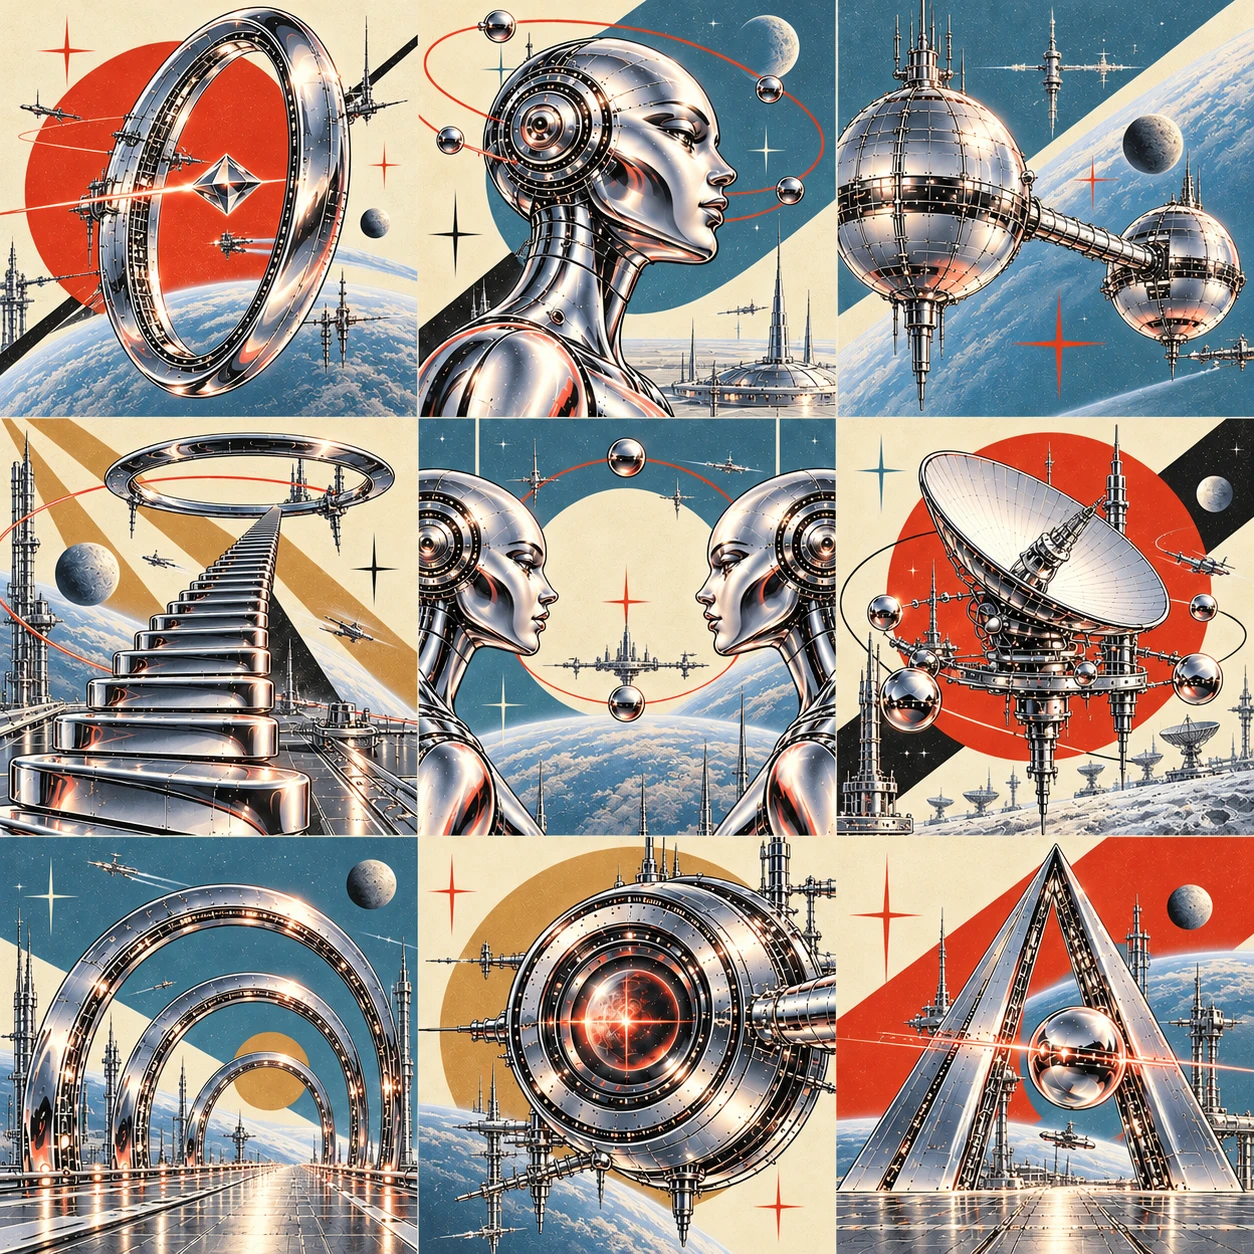
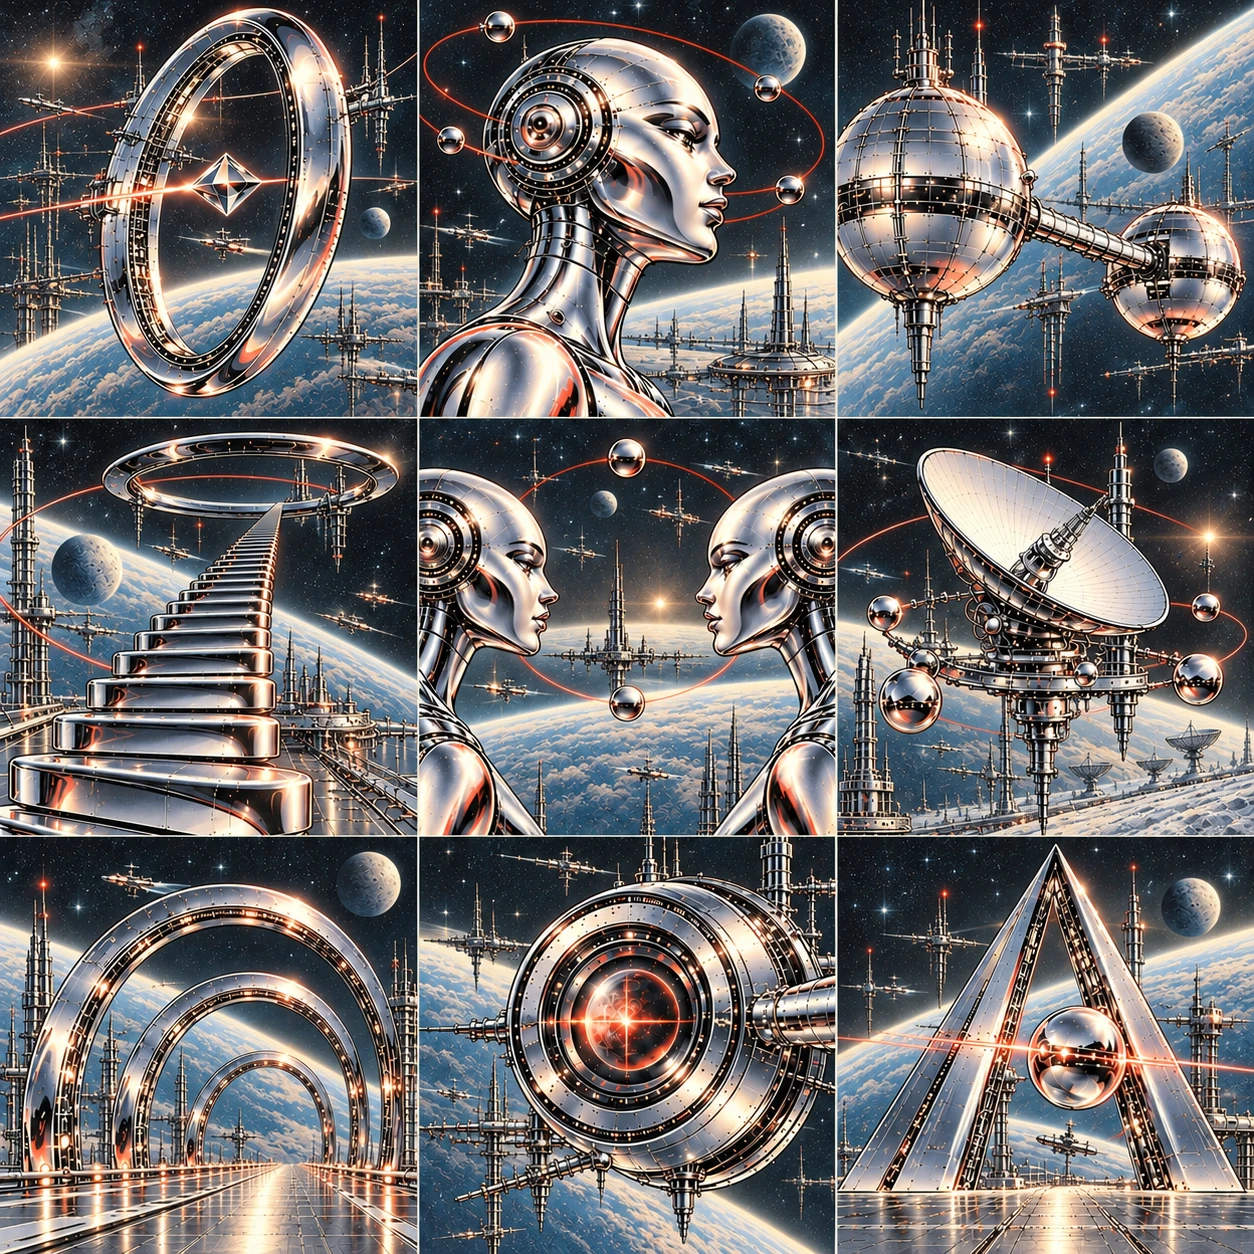
Replace flat card color fields with layered orbital illustrations

diff --git a/src/CosmicArt.tsx b/src/CosmicArt.tsx
@@ -30,7 +30,7 @@ export function PosterArt({ id }: { id: string; kind?: string }) {
       <div
         className="cosmic-illustration"
         style={{
-          backgroundImage: `url(${import.meta.env.BASE_URL}cosmonaut-atlas.webp)`,
+          backgroundImage: `url(${import.meta.env.BASE_URL}cosmonaut-atlas.webp?v=orbital)`,
         }}
       />
       <div className="cover-halftone" />

diff --git a/docs/ASSETS.md b/docs/ASSETS.md
@@ -4,9 +4,13 @@ The current hero remains `public/orbital-observatory.webp`. The active case and 
 
 ## Current case illustrations: cosmonaut atlas
 
-`public/cosmonaut-atlas.webp` (1254 × 1254, 632,578 bytes) is the active card artwork. It preserves all nine safety metaphors and their equal 3 × 3 mapping, with silver chrome, controlled cool/warm reflections, orbital structures and layered aviation detail. The project's own earlier atlas was the edit input. The intermediate print variants are working drafts, not published site dependencies.
+`public/cosmonaut-atlas.webp` (1254 × 1254, 689,674 bytes) is the active card artwork. It preserves all nine safety metaphors and their equal 3 × 3 mapping, with silver chrome, controlled cool/warm reflections, orbital structures and layered aviation detail. The final background refinement removes large flat color fields and replaces them with subdued deep space, planetary limbs and distant infrastructure. The project's own earlier atlas was the edit input. The original print version is retained in Git history; the active file uses the background refinement below.
 
-### Exact prompt
+### Final spatial-background refinement prompt
+
+Use case: style-transfer. Edit target: supplied 3 by 3 Safety Atlas case illustration sheet. Preserve EXACTLY the nine metallic subjects, their positions, proportions, silver chrome airbrush material, mechanical details, secondary aerospace structures, equal 3x3 square grid and subject order. Change ONLY the BACKGROUNDS and their light integration. REMOVE all large flat red discs, flat blue color fields, ochre rays, cream diagonal bands, giant graphic stars and abstract constructivist geometric blocks. These big flat colored areas are visually intrusive. Replace them with rich, spatial, drawn 1970s Soviet speculative space illustration backgrounds that naturally belong behind the machinery: deep charcoal/blue-black outer space, restrained small stars, softly airbrushed pearl-gray planetary limbs, thin warm ivory atmospheric rims, distant orbital causeways, delicate satellite silhouettes and engraved docking gantries. Background color is cohesive and subdued across all nine panels; no brightly painted flat zones, no saturated colored nebulae, no gradient blobs. Create depth through scale, quiet haze and fine linework. Keep existing pale blue-gray planets and aviation detail but integrate them as actual worlds and structures, not collage shapes. Chrome subjects remain large and luminous silver with pale steel-blue shadow, near-black mirror bands and slim peach/warm-white reflections; preserve Sorayama-like elegant illustrated airbrush modelling. Warm vermilion may remain ONLY in thin data orbits, indicator lights or a tiny distant light source, never giant discs or background slabs. Warm paper-like grain and drawn contours keep a vintage science-fiction comic/editorial illustration character; NOT photorealistic CGI. The aim is the same world as a chrome android overlooking a vast orbital observatory, with intricate Soviet space-age engineering and a calm dark cosmic setting. Each of nine subjects stays extremely readable against its backdrop, strong silhouette, luminous metal. Do not shrink them or add main objects. No text, no numbers, no watermark, no logos, no political symbols, no gutters, no borders, exact 3 by 3 equal cells.
+
+### Initial detailed print prompt (before background refinement)
 
 Use case: style-transfer. Edit target: supplied 3x3 Safety Atlas artwork. KEEP exact 3 by 3 equal square cells, nine subjects, order, silhouettes, bold graphic composition and proportions. Repaint the material/color and enrich the surrounding aviation detail. Primary request: sophisticated retrofuture merging Soviet 1960s-1980s SPACE ILLUSTRATION with Hajime Sorayama's illustrated chrome color language. This is NOT just red constructivist propaganda, NOT minimal icon art. METAL: replace the current beige/gold cast with luminous SILVER-WHITE chrome, deep near-black mirrored ribbons, soft pale cyan/steel-blue shadows, very delicate lilac midtones, slim warm rose/peach edge reflections, razor-thin white highlights, elegant airbrushed acrylic gradients, crisp fine contours and engraved mechanical seams. Chrome is mainly silver, not rainbow metal. BACKGROUNDS: preserve the shared warm ivory paper, faded aerospace blue, ochre and vermilion print-color family and the existing deliberate color balance across cells; no separate random palette for each card. Enrich each scene with subtle detailed Soviet speculative aviation world-building, secondary to the large subject: tiny orbital station modules, pressure-hull panel seams, antenna masts, docking trusses, riveted rings, thin elliptical navigation trajectories, faint planetary horizons and delicate technical cross-sections. Include only two or three fitting secondary details per cell, in low-contrast fine ink lines or airbrushed distance. Specific motifs: portal above a curving planetary horizon with distant docking gantry; android beside a tiny crescent planet and memory orbit with small relay satellites; connected satellites with detailed trusses and aerials; staircase lifting from a launch-platform perspective grid toward orbit; two facing androids linked across a far orbital settlement arc; radar overlooking a distant array of small dishes; protective arches spanning an orbital causeway; optical lens with finely engraved concentric calibrations and a distant planet; triangular gateway with a small docking bay and a curved planetary limb. Maintain a clean clear silhouette and strong focal hierarchy, not an indiscriminate collage. Mostly flat editorial illustration, airbrushed metallic foreground and fine technical drawing in background, subtle paper grain and print registration. No photographic CGI environment, no dark clutter, no extra UI labels, no text, no letters, no logos, no watermarks, no political emblems, no gutters. Exact same nine objects in same 3x3 positions.
 

diff --git a/docs/DESIGN.md b/docs/DESIGN.md
@@ -11,9 +11,20 @@
 
 以上具体的配色、构图和交互映射是项目设计判断，不代表某个时代只有一套色板。本站插画为新生成作品，没有复制馆藏图片，也不是艺术家原作或授权联名。
 
+## 对照具体作品
+
+| 作品与来源                                                                                                                                                                    | 研究重点                                     | 在案例卡中的运用                                             |
+| ----------------------------------------------------------------------------------------------------------------------------------------------------------------------------- | -------------------------------------------- | ------------------------------------------------------------ |
+| [空山基《Untitled》，2015，Taguchi Art Collection](https://taguchiartcollection.jp/en/artwork/tac330/)                                                                        | 银蓝金属、暖色边缘、精细轮廓和喷绘明暗       | 用冷暖反光塑造机械主体，保留细致分缝；不照搬其粉色背景与人物 |
+| [列昂诺夫《Over the Black Sea》，1973，Science Museum 展览资料](https://artsandculture.google.com/asset/over-the-black-sea-0098/sAERQQSXLCATTQ)                               | 宇航员与地球的空间关系，人的活动进入宇宙叙事 | 用轨道、行星弧面和远处设施建立尺度，背景服务于主体           |
+| [索科洛夫《发射前》，1980 年代，加加林博物馆](https://museumgagarin.ru/virtualnyy-muzey/virtualnye-vystavki/vystavka-edinstvo-cheloveka-i-vselennoy/a-sokolov-pered-startom/) | 巨大工程设施与人物的比例                     | 用站体、桁架、天线和接驳结构形成层次                         |
+| [Rick Guidice 环形太空居住站，NASA Ames 1970 年代概念绘画](https://www.nasa.gov/image-article/retrofuturistic-nasa-space-art/)                                                | 可理解的轨道建筑和未来生活空间               | 让门、拱桥、雷达与轨道设施有结构和透视，不作为悬浮装饰贴片   |
+
+用户确认的首页机器人图是本项目的最终视觉对照。馆藏与航天作品用于研究构图和材质原则；卡片仍以自身安全机制为主题。最终卡片去除大面积抽象色块，保留环境细节、明亮主体和背景留白的层次。
+
 ## 丰富的插画，清楚的界面
 
-统一依靠共同材质、图文尺度、视线方向和印刷语言。朱红、航天蓝和赭石在插画中有节奏地出现，金属始终以银铬为主体。插画保留站体、桁架、舱体接缝、航行轨迹和远近尺度；暖纸色与硬边几何维持平面漫画感。
+统一依靠共同材质、图文尺度、视线方向和印刷语言。案例背景采用低饱和深空、灰蓝行星弧面、细小航天设施与暖白大气边缘，取消占据大面积的红色圆盘、蓝色平面和赭色放射块。朱红集中于信号轨迹和小面积光源，金属始终以银铬为主体。站体、桁架、舱体接缝和航行轨迹提供远近尺度；暖白标题条、墨线与印刷网点保留平面漫画感。
 
 页面背景采用深空墨蓝，卡片标题使用暖白印刷条。背景降低存在感，细节集中在作品内部。每张卡保留一个主要机械主体和明确轮廓，标题、类型、图像优先。小字和点击层级不随插画细节增加。
 
